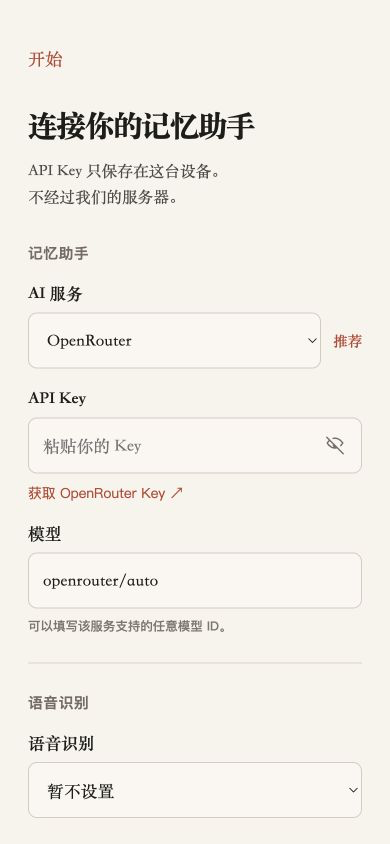
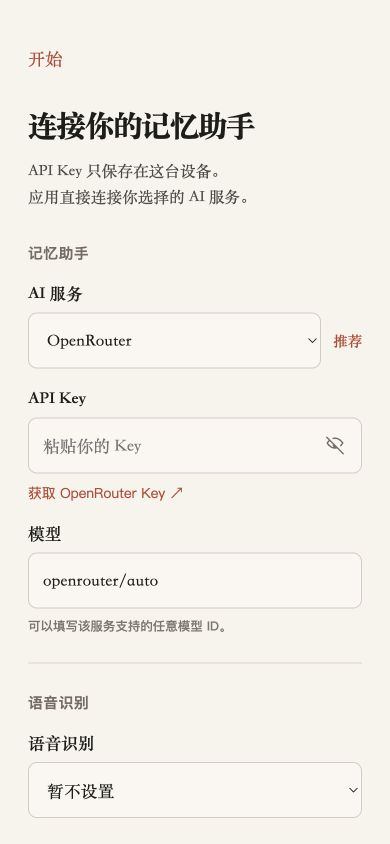
Clarify direct provider connection

Changed region(s): [[0.0615, 0.2156, 0.6154, 0.2464]]

diff --git a/src/i18n.js b/src/i18n.js
@@ -37,7 +37,7 @@ const COPY = {
       phoneOnly: '网页上可以先用文字记录；语音录制请使用 Android 或 iPhone 客户端。',
     },
     settings: {
-      start: '开始', title: '连接你的记忆助手', subtitle: 'API Key 只保存在这台设备。\n不经过我们的服务器。',
+      start: '开始', title: '连接你的记忆助手', subtitle: 'API Key 只保存在这台设备。\n应用直接连接你选择的 AI 服务。',
       pageTitle: '设置', agentSection: '记忆助手', service: 'AI 服务', recommended: '推荐',
       apiKey: 'API Key', apiKeyPlaceholder: '粘贴你的 Key', showKey: '显示 Key', hideKey: '隐藏 Key',
       model: '模型', modelHint: '可以填写该服务支持的任意模型 ID。', endpoint: '接口地址',
@@ -89,7 +89,7 @@ const COPY = {
       phoneOnly: '網頁上可以先用文字記錄；語音錄製請使用 Android 或 iPhone 客戶端。',
     },
     settings: {
-      start: '開始', title: '連接你的記憶助手', subtitle: 'API Key 只保存在這台裝置。\n不經過我們的伺服器。',
+      start: '開始', title: '連接你的記憶助手', subtitle: 'API Key 只保存在這台裝置。\n應用程式直接連接你選擇的 AI 服務。',
       pageTitle: '設定', agentSection: '記憶助手', service: 'AI 服務', recommended: '推薦',
       apiKey: 'API Key', apiKeyPlaceholder: '貼上你的 Key', showKey: '顯示 Key', hideKey: '隱藏 Key',
       model: '模型', modelHint: '可以填寫該服務支援的任意模型 ID。', endpoint: '介面位址',
@@ -141,7 +141,7 @@ const COPY = {
       phoneOnly: 'You can write in the web app; voice recording is available in the Android and iPhone clients.',
     },
     settings: {
-      start: 'Start', title: 'Connect your memory assistant', subtitle: 'Your API key stays on this device.\nIt never passes through our server.',
+      start: 'Start', title: 'Connect your memory assistant', subtitle: 'Your API key stays on this device.\nThe app connects directly to your chosen AI service.',
       pageTitle: 'Settings', agentSection: 'Memory assistant', service: 'AI service', recommended: 'Recommended',
       apiKey: 'API key', apiKeyPlaceholder: 'Paste your key', showKey: 'Show key', hideKey: 'Hide key',
       model: 'Model', modelHint: 'Enter any model ID supported by this service.', endpoint: 'API endpoint',

diff --git a/test/i18n.test.js b/test/i18n.test.js
@@ -1,0 +1,13 @@
+import test from 'node:test';
+import assert from 'node:assert/strict';
+
+import { uiCopy } from '../src/i18n.js';
+
+test('onboarding describes a direct provider connection without implying an app server', () => {
+  const subtitles = ['zh-CN', 'zh-TW', 'en'].map((locale) => uiCopy(locale).settings.subtitle);
+
+  assert.match(subtitles[0], /直接连接/);
+  assert.match(subtitles[1], /直接連接/);
+  assert.match(subtitles[2], /connects directly/i);
+  assert.equal(subtitles.some((subtitle) => /我们的服务器|我們的伺服器|our server/i.test(subtitle)), false);
+});
